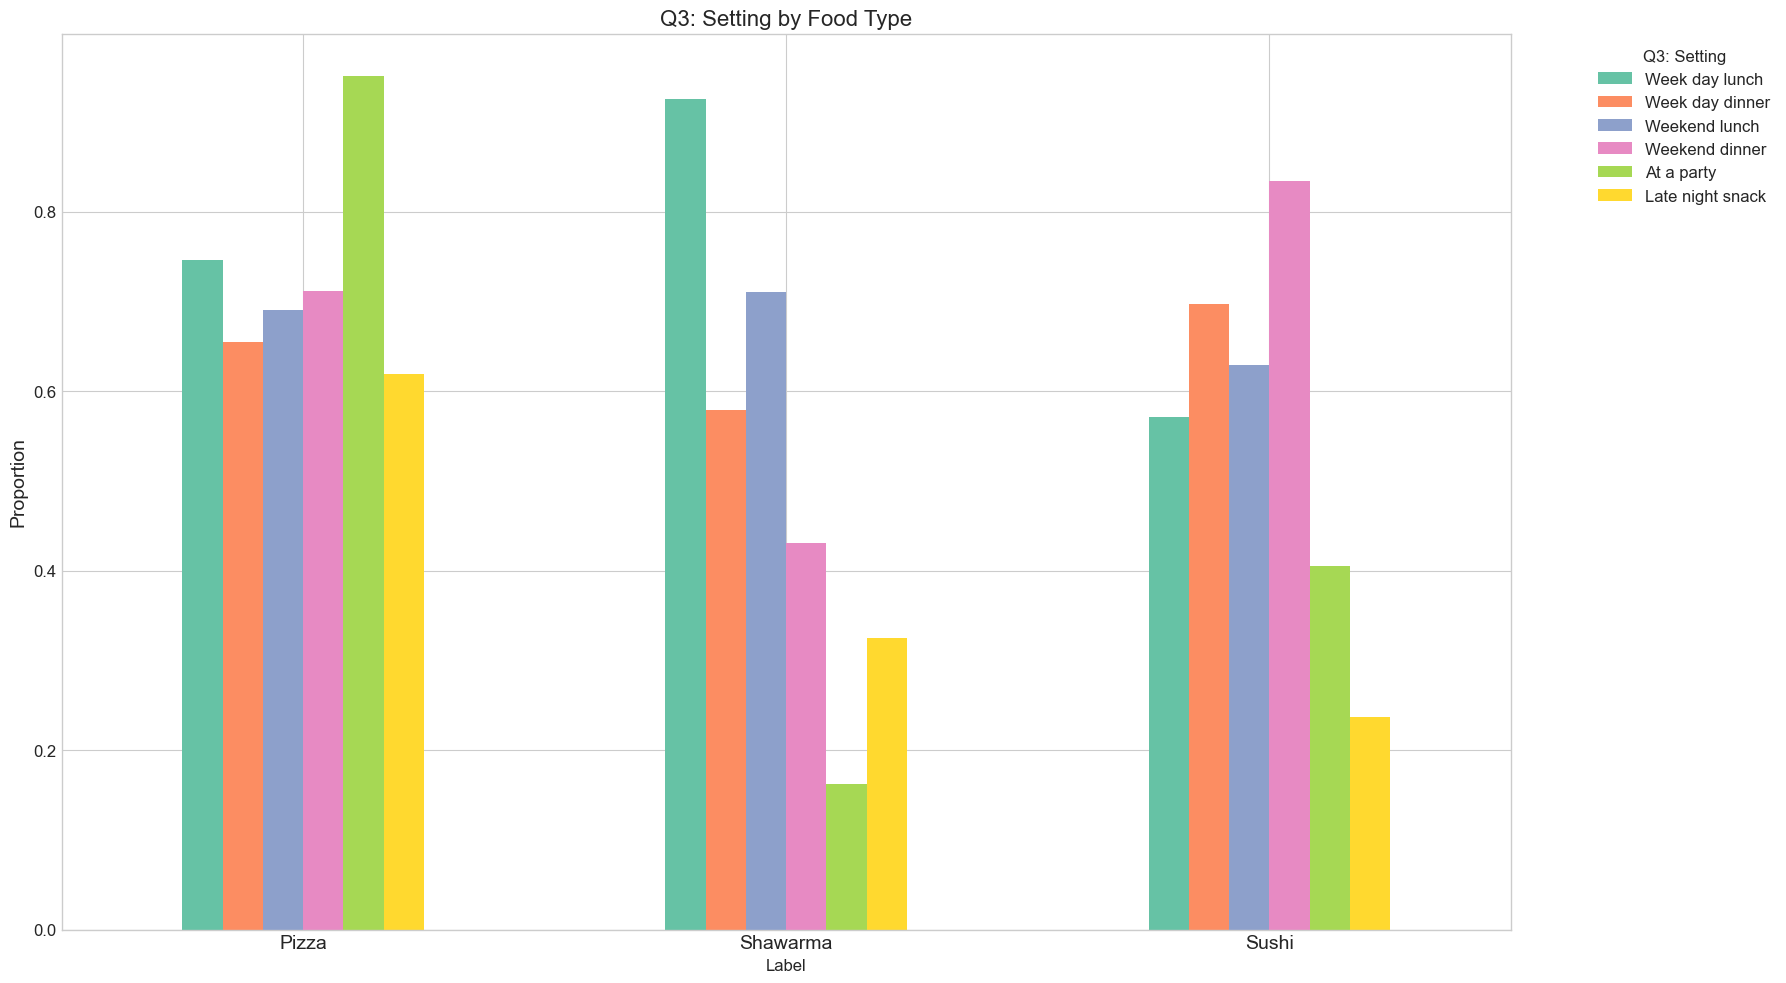
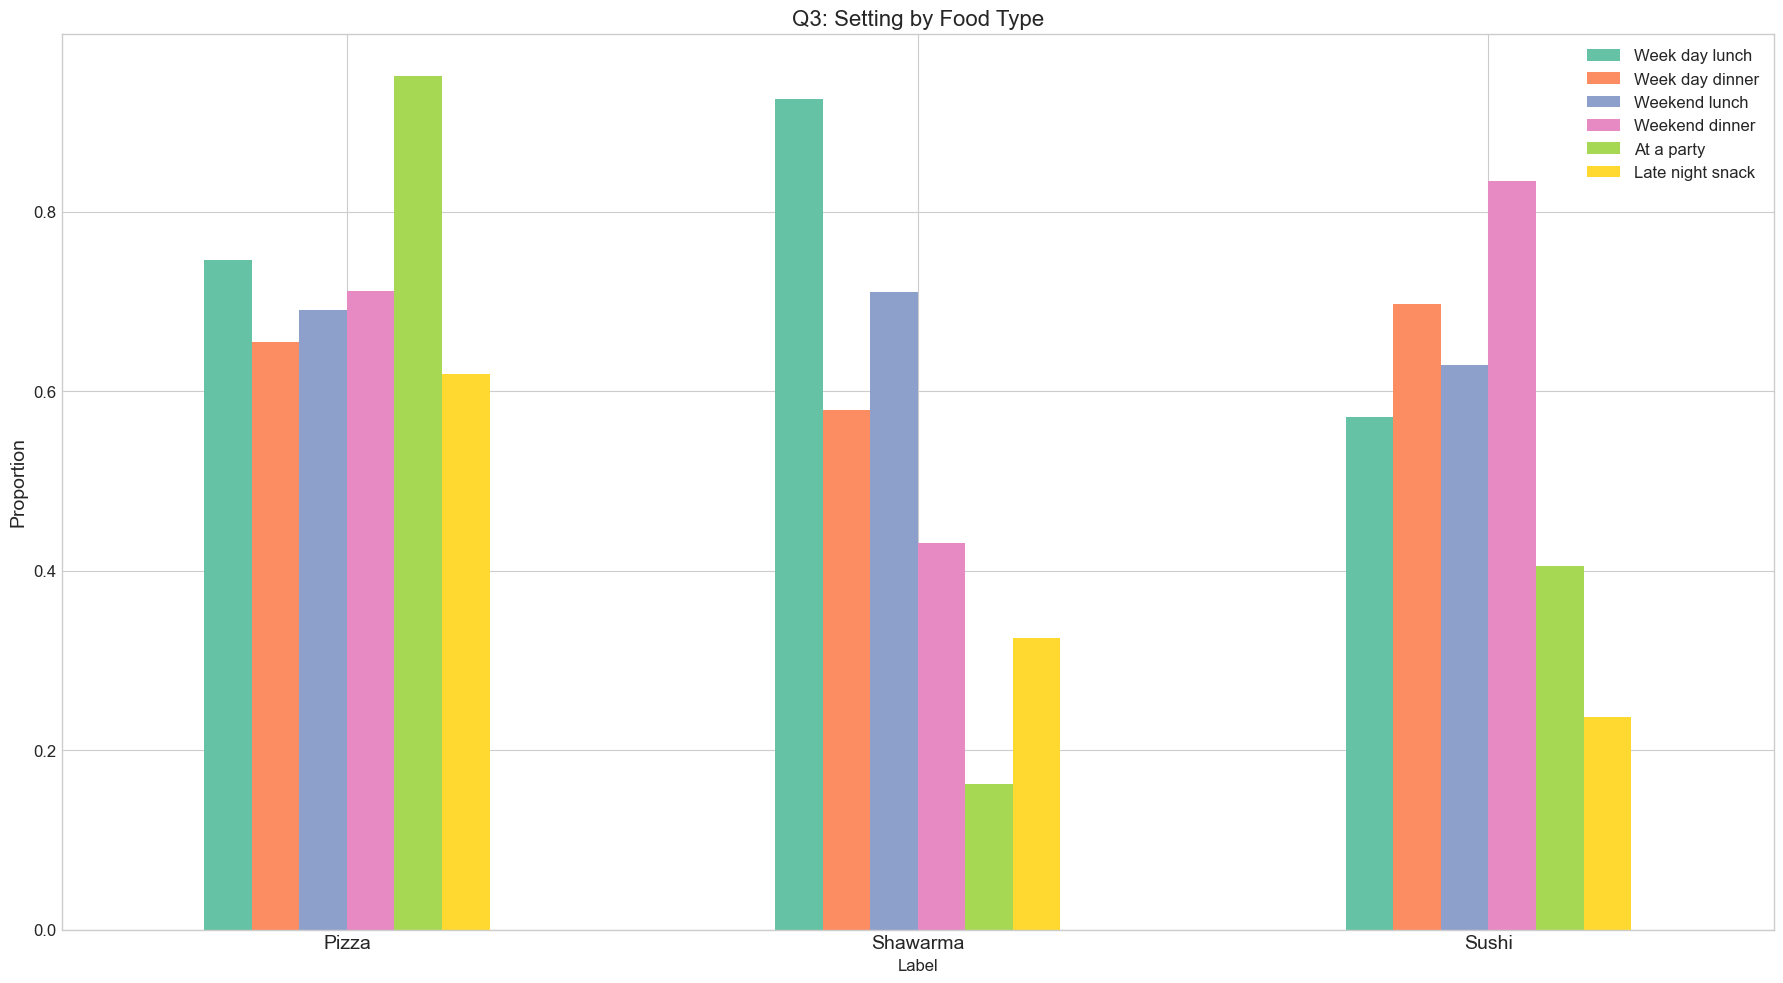
bar chart

diff --git a/FoodPredictor/data_analysis.py b/FoodPredictor/data_analysis.py
@@ -201,13 +201,20 @@ def analyze_label_correlations(df):
         short_col = QUESTION_MAPPING.get(col, col)
         simple_name = short_col.split(':')[0].strip().lower()
         
-        # Special handling for Q3 to fix duplicate/messy categories
-        if col == "Q3: In what setting would you expect this food to be served? Please check all that apply":
-            # Extract the main categories from the responses
-            main_categories = [
-                "Week day lunch", "Week day dinner", "Weekend lunch", 
-                "Weekend dinner", "At a party", "Late night snack"
-            ]
+        # Special handling for multi-select categorical columns (Q3 and Q7)
+        if col in ["Q3: In what setting would you expect this food to be served? Please check all that apply",
+                   "Q7: When you think about this food item, who does it remind you of?"]:
+            
+            # Define the main categories for each question
+            if col == "Q3: In what setting would you expect this food to be served? Please check all that apply":
+                main_categories = [
+                    "Week day lunch", "Week day dinner", "Weekend lunch", 
+                    "Weekend dinner", "At a party", "Late night snack"
+                ]
+            else:  # Q7
+                main_categories = [
+                    "Friends", "Teachers", "Strangers", "Parents", "Siblings"
+                ]
             
             # Create a new DataFrame to hold binary indicators for each category
             binary_df = pd.DataFrame(index=df.index)
@@ -223,14 +230,12 @@ def analyze_label_correlations(df):
             plt.title(f"{short_col} by Food Type", fontsize=16)
             plt.ylabel("Proportion", fontsize=14)
             plt.xticks(rotation=0, fontsize=14)
-            plt.legend(fontsize=12)
             
-            # Adjust the legend position
-            plt.legend(title=short_col, bbox_to_anchor=(1.05, 1), 
-                      loc='upper left', fontsize=12)
+            # Format legend
+            plt.legend(title=None, fontsize=12, loc='upper right')
             
         else:
-            # Regular processing for other columns
+            # Regular processing for other columns (like Q8)
             # Create a cross-tabulation
             cross_tab = pd.crosstab(df['Label'], df[col])
             cross_tab_norm = cross_tab.div(cross_tab.sum(axis=1), axis=0)
